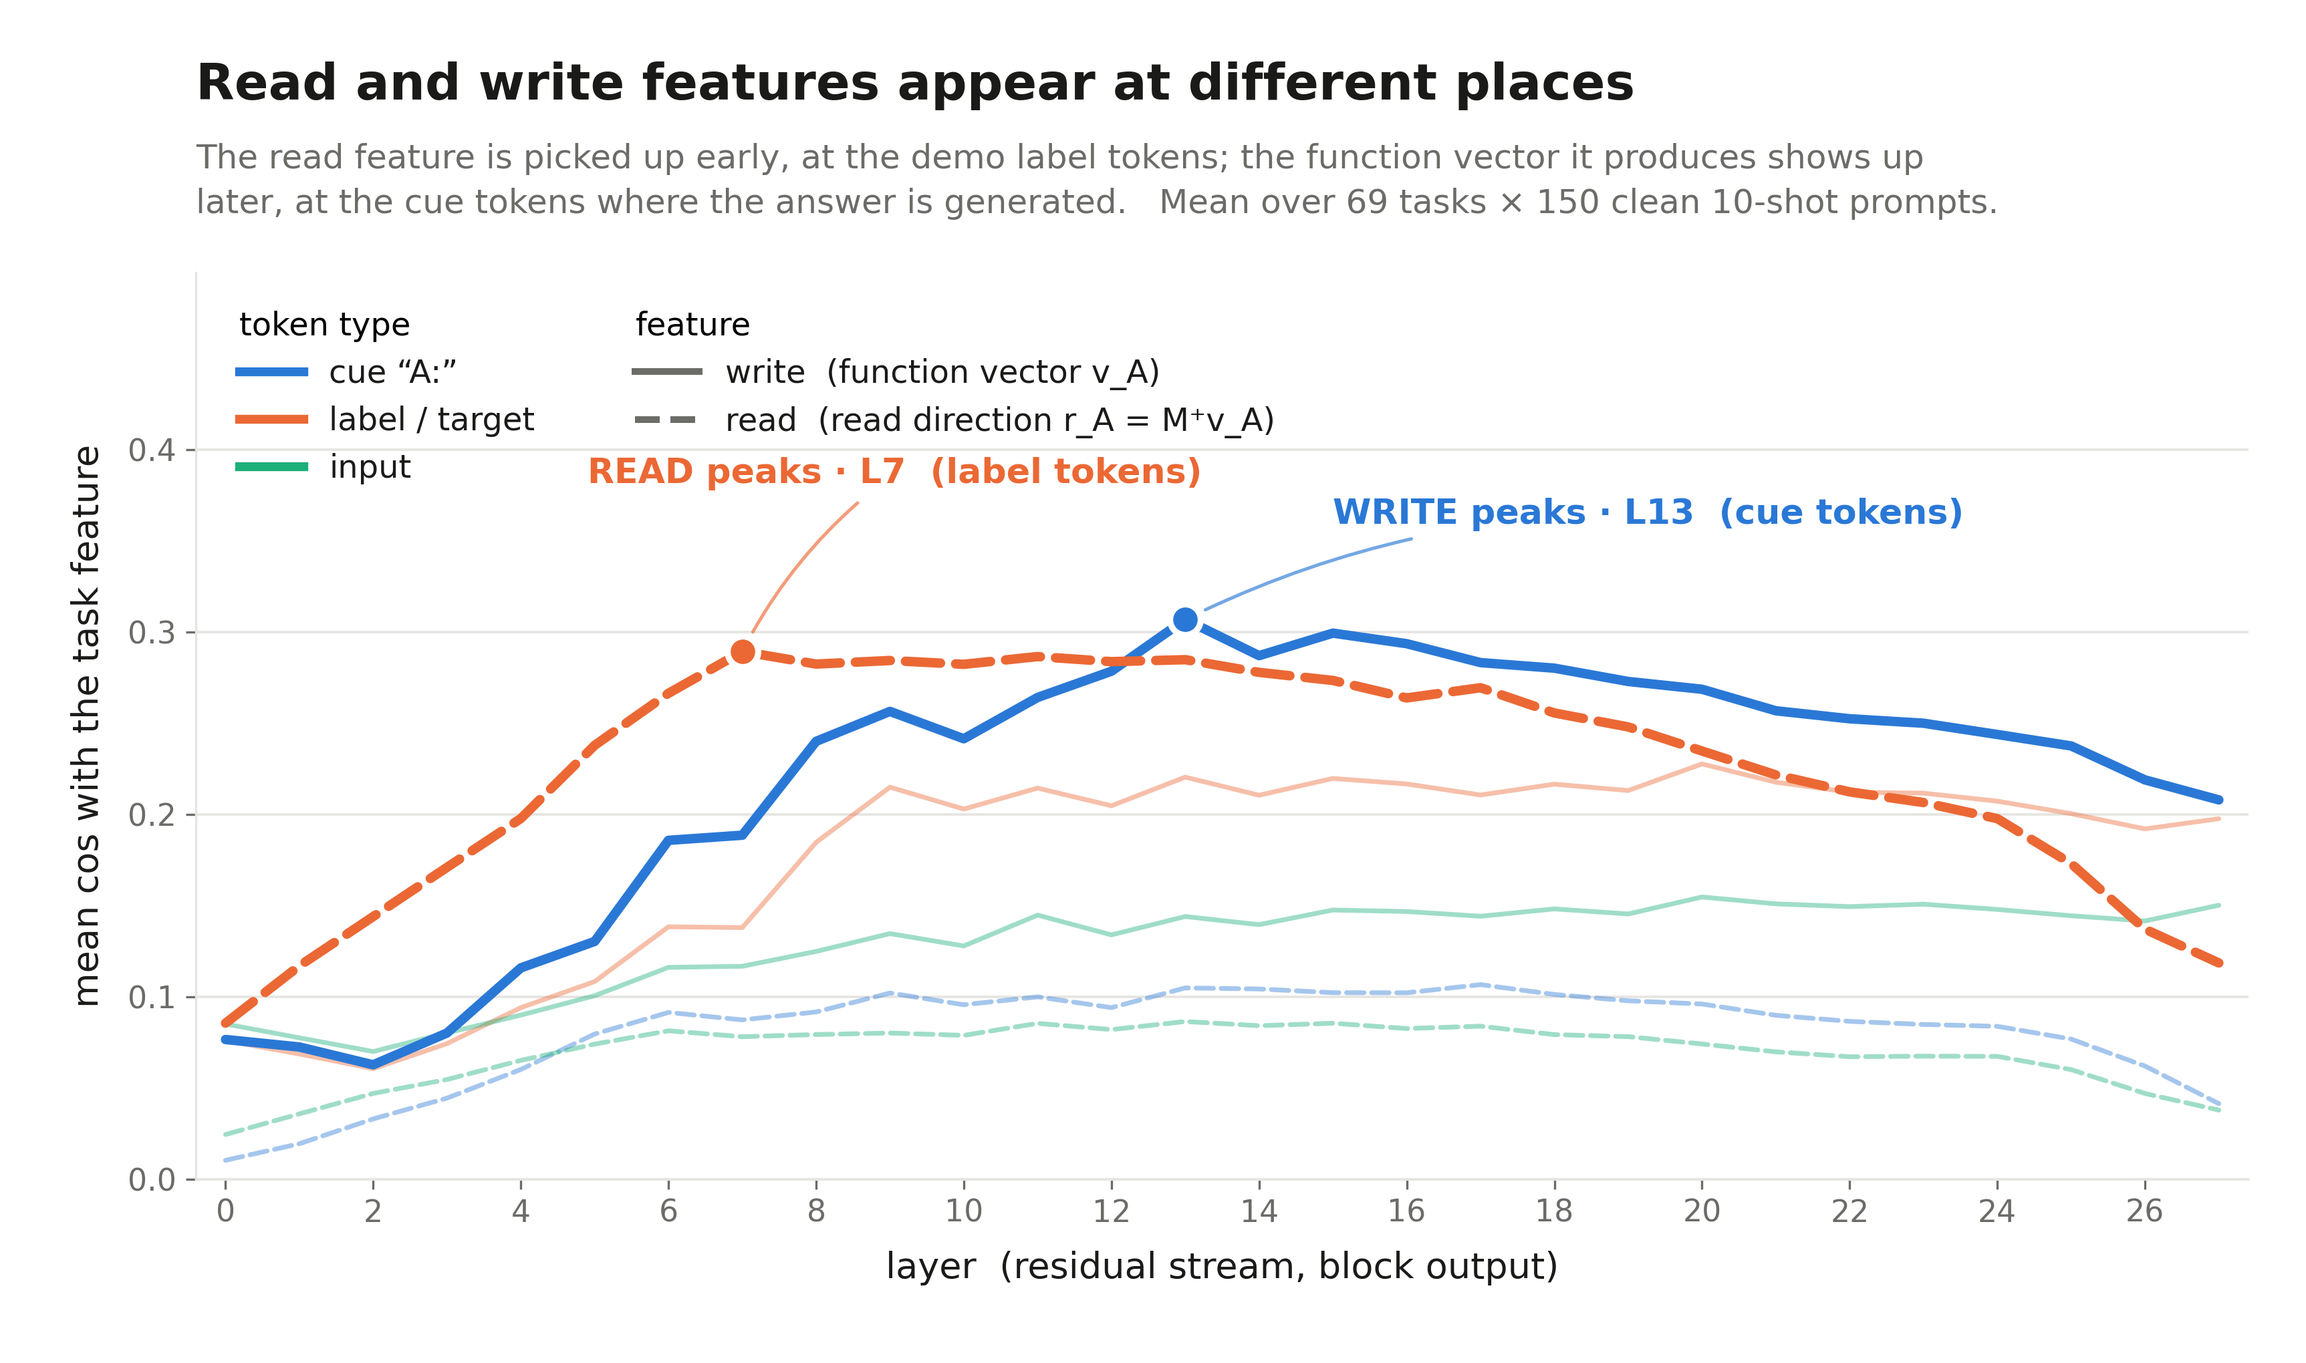
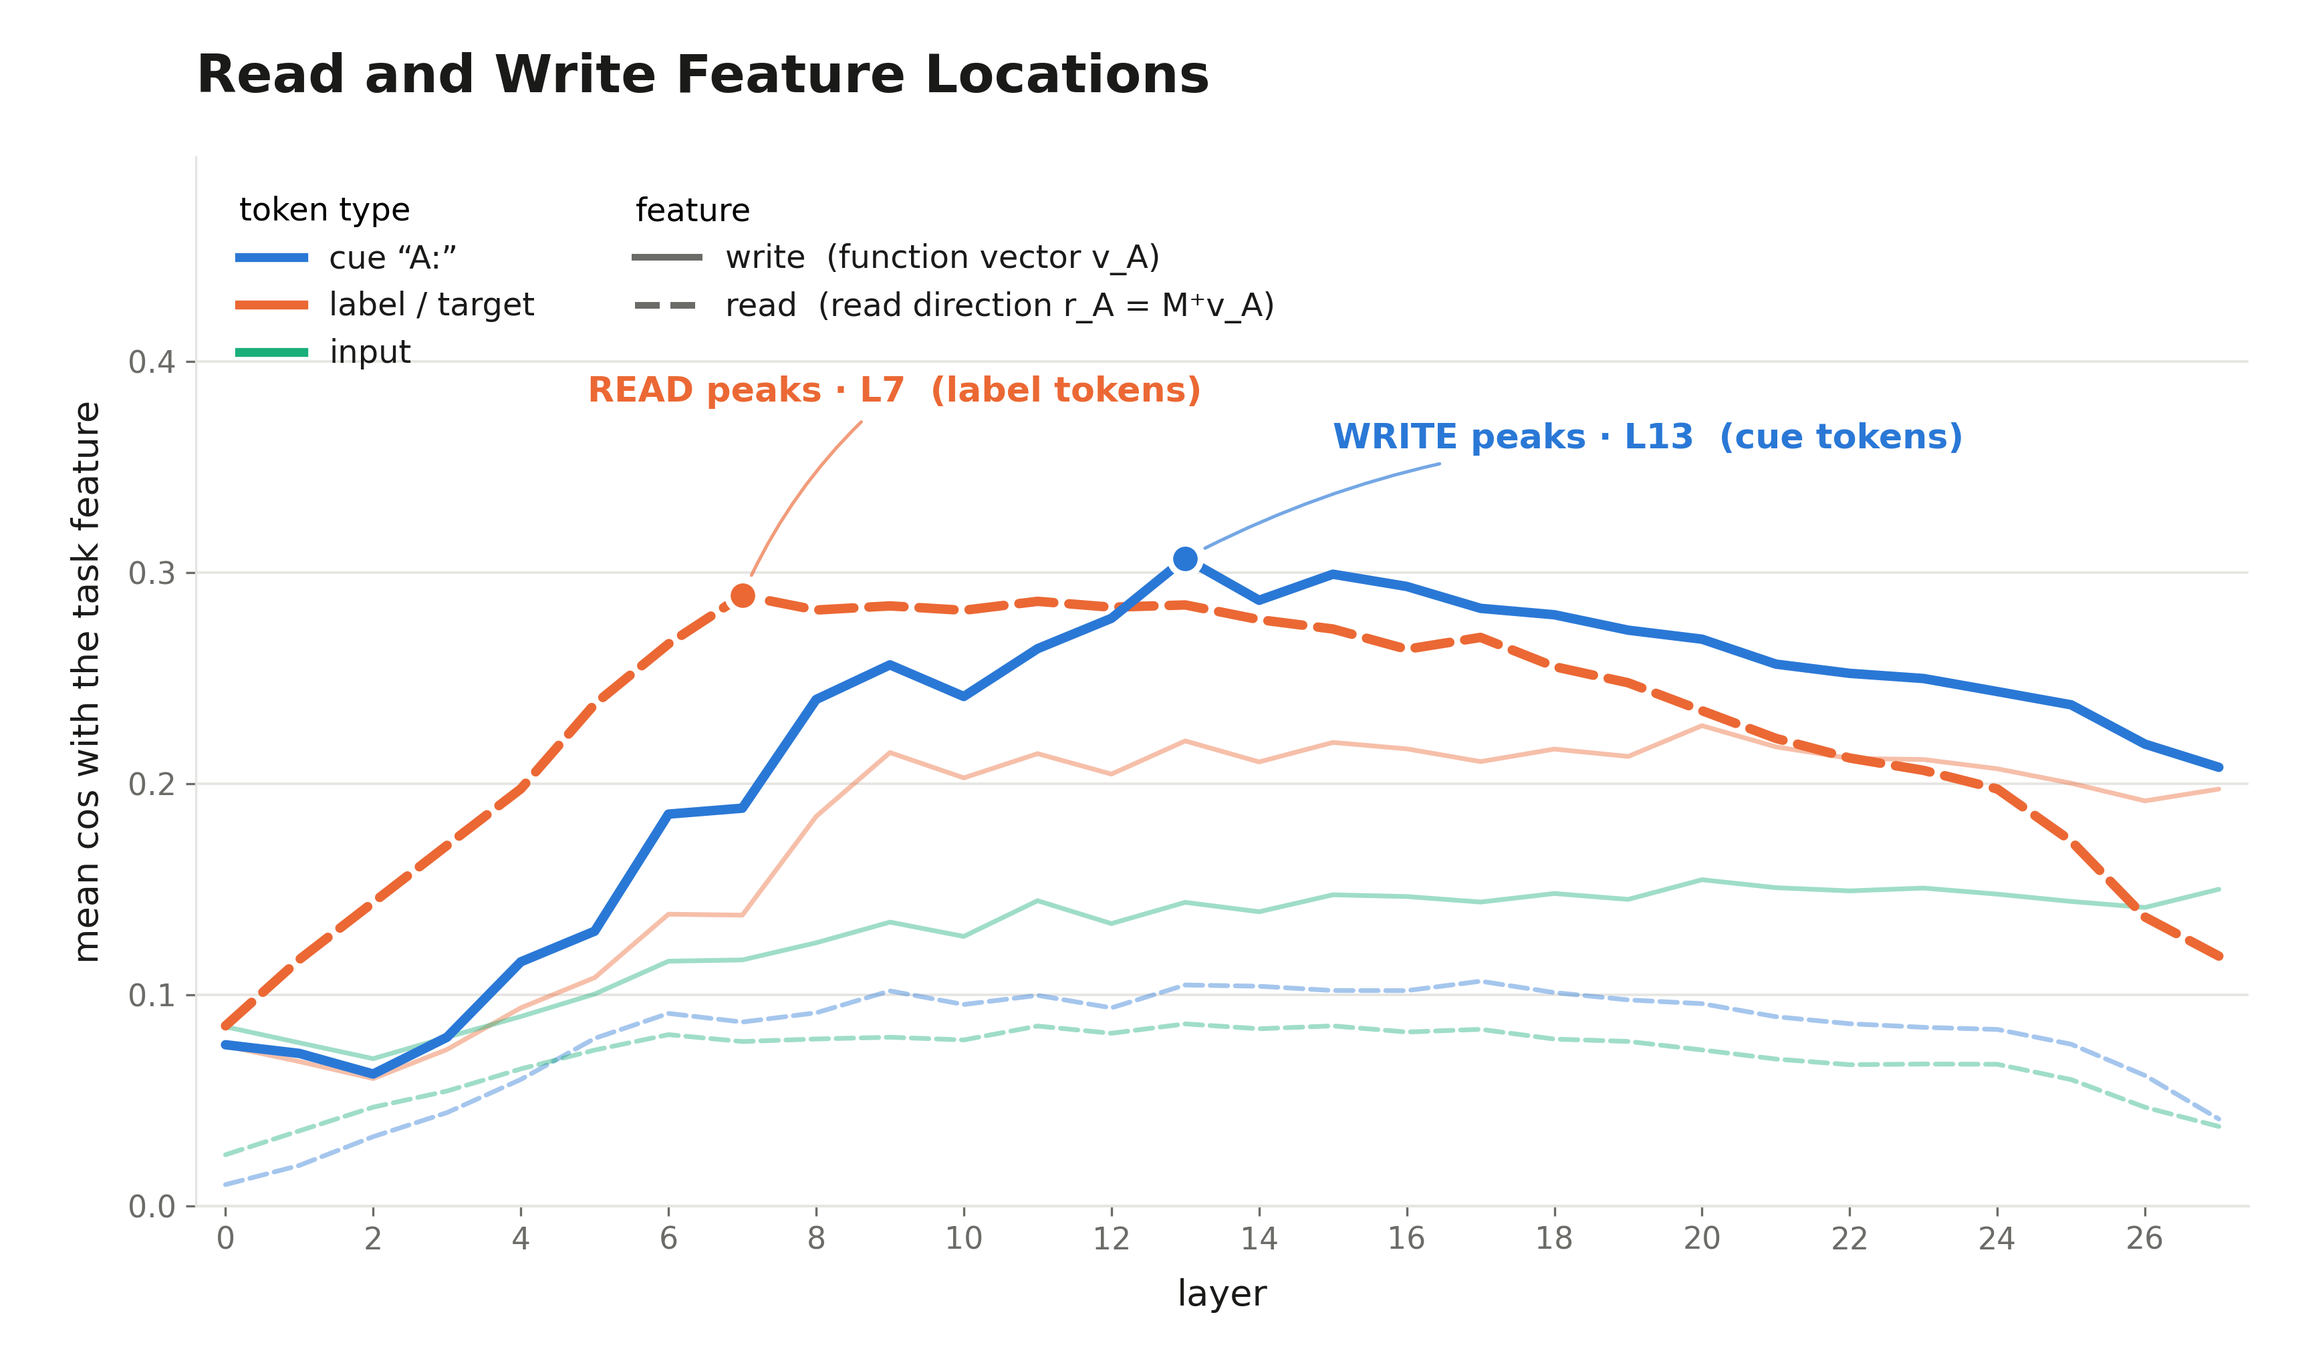
read-vs-write poster: --layout {single,dual,stacked}; retitle 'Read and Write Feature Locations'; drop caption and x-label parenthetical

diff --git a/src/eval_scripts/plot_69_read_vs_write_presence.py b/src/eval_scripts/plot_69_read_vs_write_presence.py
@@ -1,16 +1,25 @@
 #!/usr/bin/env python
 """Poster visual: where the READ and WRITE features become present in the residual stream.
 
-One panel, mean cos by token type against depth, overlaying both feature families:
-  WRITE  = the task function vector v_A            (direct_FV_presence)
-  READ   = the task read direction r_A = M^+ v_A   (read_dir_presence, cosine_perhead)
+Mean cos by token type against depth, for both feature families:
+  WRITE = the task function vector v_A                      (direct_FV_presence)
+  READ  = --read_source read_dir   -> r_A = M^+ v_A         (read_dir_presence)
+          --read_source label_mean -> m_A(L6), the L6 label-token mean that steers
+                                                            (label_mean_L6_presence)
 Colour encodes token type (input / cue "A:" / label-target, same mapping as the other
 FV_location posters); line style encodes family (solid = write, dashed = read). The two
 headline curves — read@label and write@cue — are drawn at full weight with their peaks
 marked; the other four are held back so the dissociation reads at poster distance.
 
-Writes RESULTS/69_task_run/FV_location/poster_visuals/read_vs_write_presence[_labelmean].{png,csv}
-plus the plotted curves as csv.
+--layout controls how the two families share the plot:
+  single  one shared cos axis (default; honest, but a low-amplitude family looks flat)
+  dual    twin y-axes, read left / write right — each family filling its own scale.
+          NOTE: both families are measured in the SAME unit (cosine), so a second scale
+          makes the apparent crossing point an artefact of the chosen limits. Use only
+          when the point being made is about the LOCATION of each peak, never about which
+          curve is "higher"; the figure is annotated to that effect.
+  stacked two panels sharing the layer axis — the non-distorting way to give each family
+          its own scale.
 """
 import argparse
 import sys
@@ -41,70 +50,59 @@ READ_SOURCES = {
     "read_dir": ("read_dir_presence", "read  (read direction r_A = M⁺v_A)"),
     "label_mean": ("label_mean_L6_presence", "read  (L6 label-token mean m_A(L6))"),
 }
+WRITE_LABEL = "write  (function vector v_A)"
 
 
 def parse_args():
     p = argparse.ArgumentParser(description=__doc__, formatter_class=argparse.RawDescriptionHelpFormatter)
     p.add_argument("--root", type=Path, default=TASK69_RUN_DIR / "FV_location")
     p.add_argument("--out_dir", type=Path, default=None)
-    p.add_argument("--read_source", choices=sorted(READ_SOURCES), default="read_dir",
-                   help="which object plays the READ role (see READ_SOURCES)")
+    p.add_argument("--read_source", choices=sorted(READ_SOURCES), default="read_dir")
+    p.add_argument("--layout", choices=["single", "dual", "stacked"], default="single")
     args = p.parse_args()
     if args.out_dir is None:
         args.out_dir = args.root / "poster_visuals"
     return args
 
 
-def main():
-    args = parse_args()
-    read_dir_name, read_label = READ_SOURCES[args.read_source]
-    FAMILIES = {WRITE_DIR: ("write  (function vector v_A)", "-"),
-                read_dir_name: (read_label, "--")}
-    HEADLINE = {(WRITE_DIR, "cue"), (read_dir_name, "label")}
+def load_profiles(root, read_dir_name):
     profs = {}
-    for folder in FAMILIES:
-        z = np.load(args.root / folder / "fv_location.npz", allow_pickle=False)
+    for folder in (WRITE_DIR, read_dir_name):
+        z = np.load(root / folder / "fv_location.npz", allow_pickle=False)
         cols = [str(c) for c in z["columns"]]
         mat = z["cos"].mean(0)
         for k in CAT:
             idx = [i for i, c in enumerate(cols) if c.endswith("_" + k)]
             profs[(folder, k)] = mat[:, idx].mean(axis=1)
-    n_layers = len(next(iter(profs.values())))
-    args.out_dir.mkdir(parents=True, exist_ok=True)
+    return profs
 
-    fig, ax = plt.subplots(figsize=(11.5, 6.8))
-    fig.subplots_adjust(left=0.085, right=0.975, top=0.80, bottom=0.135)
 
-    for (folder, k), prof in profs.items():
-        head = (folder, k) in HEADLINE
-        ax.plot(range(n_layers), prof, color=CAT[k], ls=FAMILIES[folder][1],
+def draw_family(ax, profs, folder, n_layers, ls, headline_kind):
+    """Plot one family's three token-type curves; return its (peak_layer, peak_value)."""
+    for k in ("cue", "label", "input"):
+        head = k == headline_kind
+        ax.plot(range(n_layers), profs[(folder, k)], color=CAT[k], ls=ls,
                 lw=3.4 if head else 1.7, alpha=1.0 if head else 0.42,
-                zorder=4 if head else 2, solid_capstyle="round",
-                dash_capstyle="round")
+                zorder=4 if head else 2, solid_capstyle="round", dash_capstyle="round")
+    prof = profs[(folder, headline_kind)]
+    return int(np.argmax(prof)), float(prof.max())
 
-    # Peaks of the two headline curves. Both callouts sit in the headroom band below the
-    # legends and are tied to their peak by a connector, so neither can foul the y-axis
-    # label, the legends, or each other.
-    hi_y = max(p.max() for p in profs.values()) * 1.62   # must match set_ylim below
-    ax.set_ylim(0, hi_y)
-    for folder, k, tx, ty in ((read_dir_name, "label", 4.9, 0.760),
-                              (WRITE_DIR, "cue", 15.0, 0.715)):
-        prof = profs[(folder, k)]
-        L = int(np.argmax(prof))
-        ax.plot([L], [prof[L]], "o", ms=11, color=CAT[k], mec="white", mew=2.2, zorder=6)
-        short = {"label": "label tokens", "cue": "cue tokens"}[k]
-        ax.annotate(f"{'WRITE' if folder == WRITE_DIR else 'READ'} peaks · L{L}  ({short})",
-                    xy=(L, prof[L]), xytext=(tx, ty * hi_y), ha="left", va="bottom",
-                    fontsize=12.5, color=CAT[k], fontweight="bold", zorder=7,
-                    arrowprops=dict(arrowstyle="-", color=CAT[k], lw=1.2, alpha=0.65,
-                                    shrinkA=4, shrinkB=8,
-                                    connectionstyle="arc3,rad=0.12"))
 
+def mark_peak(ax, L, y, k, kind, tx, ty):
+    ax.plot([L], [y], "o", ms=11, color=CAT[k], mec="white", mew=2.2, zorder=6)
+    short = {"label": "label tokens", "cue": "cue tokens"}[k]
+    ax.annotate(f"{kind} peaks · L{L}  ({short})", xy=(L, y), xytext=(tx, ty),
+                ha="left", va="bottom", fontsize=12.5, color=CAT[k], fontweight="bold",
+                zorder=7, arrowprops=dict(arrowstyle="-", color=CAT[k], lw=1.2, alpha=0.65,
+                                          shrinkA=4, shrinkB=8,
+                                          connectionstyle="arc3,rad=0.12"))
+
+
+def style_axis(ax, n_layers, xlabel=True):
     ax.set_xlim(-0.4, n_layers - 0.6)
     ax.set_xticks(range(0, n_layers, 2))
-    ax.set_xlabel("layer  (residual stream, block output)", fontsize=13, color=INK,
-                  labelpad=8)
-    ax.set_ylabel("mean cos with the task feature", fontsize=13, color=INK, labelpad=8)
+    if xlabel:
+        ax.set_xlabel("layer", fontsize=13, color=INK, labelpad=8)
     ax.tick_params(labelsize=11, colors=INK_MUTED)
     ax.grid(axis="y", color=GRID, lw=0.9)
     ax.set_axisbelow(True)
@@ -113,45 +111,110 @@ def main():
     for s in ("left", "bottom"):
         ax.spines[s].set_color(GRID)
 
-    fig.text(0.085, 0.955, "Read and write features appear at different places",
-             fontsize=18, color=INK, fontweight="bold", va="top")
-    sub = ("The read feature is picked up early, at the demo label tokens; the function "
-           "vector it produces shows up\nlater, at the cue tokens where the answer is "
-           "generated.   Mean over 69 tasks × 150 clean 10-shot prompts.")
-    if args.read_source == "label_mean":
-        sub += ("\nNote: m_A(L6) is a raw mean activation, so it carries the shared "
-                "residual-stream component and sits high at every position;\nits "
-                "label-vs-other margin (1.4×), not its absolute level, is what is "
-                "comparable with the function vector.")
-    fig.text(0.085, 0.895, sub, fontsize=12, color=INK_MUTED, va="top", linespacing=1.5)
+
+def main():
+    args = parse_args()
+    read_dir_name, read_label = READ_SOURCES[args.read_source]
+    profs = load_profiles(args.root, read_dir_name)
+    n_layers = len(next(iter(profs.values())))
+    args.out_dir.mkdir(parents=True, exist_ok=True)
+    r_max = max(profs[(read_dir_name, k)].max() for k in CAT)
+    w_max = max(profs[(WRITE_DIR, k)].max() for k in CAT)
+
+    title = "Read and Write Feature Locations"
+
+    if args.layout == "stacked":
+        fig, axes = plt.subplots(2, 1, figsize=(11.5, 8.4), sharex=True)
+        fig.subplots_adjust(left=0.095, right=0.975, top=0.895, bottom=0.075, hspace=0.16)
+        for ax, folder, ls, kind, kk, mx in (
+                (axes[0], read_dir_name, "--", "READ", "label", r_max),
+                (axes[1], WRITE_DIR, "-", "WRITE", "cue", w_max)):
+            L, y = draw_family(ax, profs, folder, n_layers, ls, kk)
+            if kind == "READ":
+                Lr, yr = L, y
+            else:
+                Lw, yw = L, y
+            ax.set_ylim(0, mx * 1.30)
+            # READ peaks early, where the legend sits — swing its callout right
+            mark_peak(ax, L, y, kk, kind, L + (8.5 if kind == "READ" else 1.2),
+                      mx * 1.02)
+            style_axis(ax, n_layers, xlabel=(folder == WRITE_DIR))
+            ax.set_ylabel(("READ" if kind == "READ" else "WRITE") + "\nmean cos",
+                          fontsize=12.5, color=INK, labelpad=8)
+        leg_ax = axes[0]
+    else:
+        fig, ax = plt.subplots(figsize=(11.5, 6.8))
+        fig.subplots_adjust(left=0.085, right=0.912 if args.layout == "dual" else 0.975,
+                            top=0.885,
+                            bottom=0.155 if args.layout == "dual" else 0.115)
+        if args.layout == "dual":
+            axw = ax.twinx()
+            Lr, yr = draw_family(ax, profs, read_dir_name, n_layers, "--", "label")
+            Lw, yw = draw_family(axw, profs, WRITE_DIR, n_layers, "-", "cue")
+            ax.set_ylim(0, r_max * 1.52)
+            axw.set_ylim(0, w_max * 1.52)
+            mark_peak(ax, Lr, yr, "label", "READ", 1.0, r_max * 1.13)
+            mark_peak(axw, Lw, yw, "cue", "WRITE", 15.4, w_max * 1.13)
+            ax.set_ylabel("READ feature   mean cos   (dashed lines)", fontsize=12.5,
+                          color=INK, labelpad=8)
+            axw.set_ylabel("WRITE feature   mean cos   (solid lines)", fontsize=12.5,
+                           color=INK, labelpad=12, rotation=270, va="bottom")
+            axw.tick_params(labelsize=11, colors=INK_MUTED)
+            for s in ("top", "left"):
+                axw.spines[s].set_visible(False)
+            axw.spines["right"].set_color(GRID)
+            axw.spines["bottom"].set_color(GRID)
+            style_axis(ax, n_layers)
+            ax.spines["right"].set_visible(True)
+            ax.spines["right"].set_color(GRID)
+        else:
+            Lr, yr = draw_family(ax, profs, read_dir_name, n_layers, "--", "label")
+            Lw, yw = draw_family(ax, profs, WRITE_DIR, n_layers, "-", "cue")
+            hi = max(r_max, w_max) * 1.62
+            ax.set_ylim(0, hi)
+            mark_peak(ax, Lr, yr, "label", "READ", 4.9, 0.760 * hi)
+            mark_peak(ax, Lw, yw, "cue", "WRITE", 15.0, 0.715 * hi)
+            ax.set_ylabel("mean cos with the task feature", fontsize=13, color=INK,
+                          labelpad=8)
+            style_axis(ax, n_layers)
+        leg_ax = ax
+
+    fig.text(0.085, 0.962, title, fontsize=19, color=INK, fontweight="bold", va="top")
+    if args.layout == "dual":
+        # the caption is gone for poster density, but a dual scale cannot go unqualified
+        fig.text(0.085, 0.015, "Separate scales: read left, write right — both are cosines, "
+                 "so vertical ordering and crossings are artefacts; only peak locations "
+                 "are comparable.", fontsize=9.5, color=INK_MUTED, va="bottom")
 
     cat_handles = [Line2D([], [], color=CAT[k], lw=3.2) for k in ("cue", "label", "input")]
-    fam_handles = [Line2D([], [], color=INK_MUTED, lw=2.4, ls=FAMILIES[f][1]) for f in FAMILIES]
-    leg1 = ax.legend(cat_handles, [PRETTY[k] for k in ("cue", "label", "input")],
-                     title="token type", loc="upper left", bbox_to_anchor=(0.007, 0.99),
-                     frameon=False, fontsize=11.5, title_fontsize=11.5, labelcolor=INK)
+    fam_handles = [Line2D([], [], color=INK_MUTED, lw=2.4, ls=ls) for ls in ("-", "--")]
+    leg1 = leg_ax.legend(cat_handles, [PRETTY[k] for k in ("cue", "label", "input")],
+                         title="token type", loc="upper left", bbox_to_anchor=(0.007, 0.99),
+                         frameon=False, fontsize=11.5, title_fontsize=11.5, labelcolor=INK)
     leg1._legend_box.align = "left"
-    ax.add_artist(leg1)
-    leg2 = ax.legend(fam_handles, [FAMILIES[f][0] for f in FAMILIES], title="feature",
-                     loc="upper left", bbox_to_anchor=(0.20, 0.99), frameon=False,
-                     fontsize=11.5, title_fontsize=11.5, labelcolor=INK)
+    leg_ax.add_artist(leg1)
+    leg2 = leg_ax.legend(fam_handles, [WRITE_LABEL, read_label], title="feature",
+                         loc="upper left", bbox_to_anchor=(0.20, 0.99), frameon=False,
+                         fontsize=11.5, title_fontsize=11.5, labelcolor=INK)
     leg2._legend_box.align = "left"
 
-    suffix = "" if args.read_source == "read_dir" else f"_{args.read_source}"
-    for ext in ("png",):
-        fig.savefig(args.out_dir / f"read_vs_write_presence{suffix}.{ext}", dpi=300,
-                    facecolor="white")
+    parts = ["read_vs_write_presence"]
+    if args.read_source != "read_dir":
+        parts.append(args.read_source)
+    if args.layout != "single":
+        parts.append(args.layout)
+    stem = "_".join(parts)
+    fig.savefig(args.out_dir / f"{stem}.png", dpi=300, facecolor="white")
     plt.close(fig)
 
-    with open(args.out_dir / f"read_vs_write_presence{suffix}.csv", "w") as f:
-        keys = [(fo, k) for fo in FAMILIES for k in ("cue", "label", "input")]
-        f.write("layer," + ",".join(f"{'write' if 'direct' in fo else 'read'}_{k}"
+    with open(args.out_dir / f"{stem}.csv", "w") as f:
+        keys = [(fo, k) for fo in (WRITE_DIR, read_dir_name) for k in ("cue", "label", "input")]
+        f.write("layer," + ",".join(f"{'write' if fo == WRITE_DIR else 'read'}_{k}"
                                     for fo, k in keys) + "\n")
         for l in range(n_layers):
             f.write(f"{l}," + ",".join(f"{profs[key][l]:.5f}" for key in keys) + "\n")
-    print(f"wrote {args.out_dir}/read_vs_write_presence{suffix}.png")
-    for key in HEADLINE:
-        print(f"  {key}: peak {profs[key].max():.3f} at layer {int(np.argmax(profs[key]))}")
+    print(f"wrote {args.out_dir}/{stem}.png  "
+          f"(read peak L{Lr} {yr:.3f} | write peak L{Lw} {yw:.3f})")
 
 
 if __name__ == "__main__":
